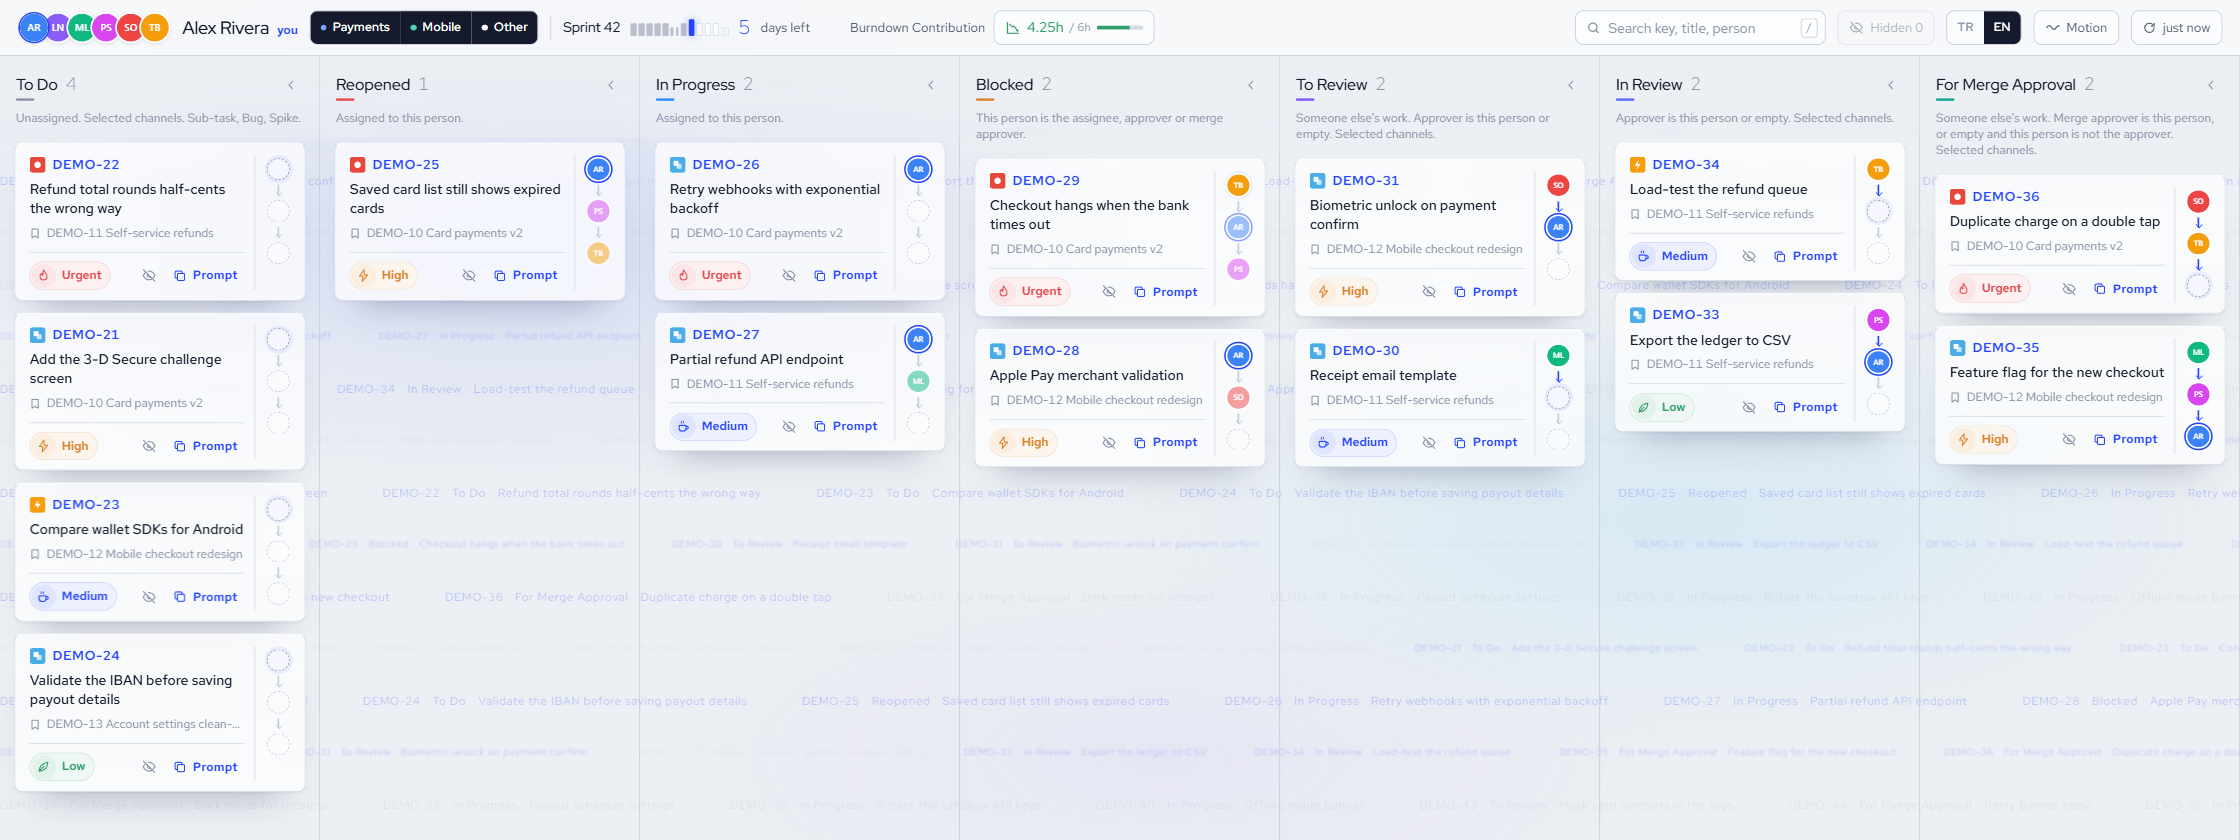
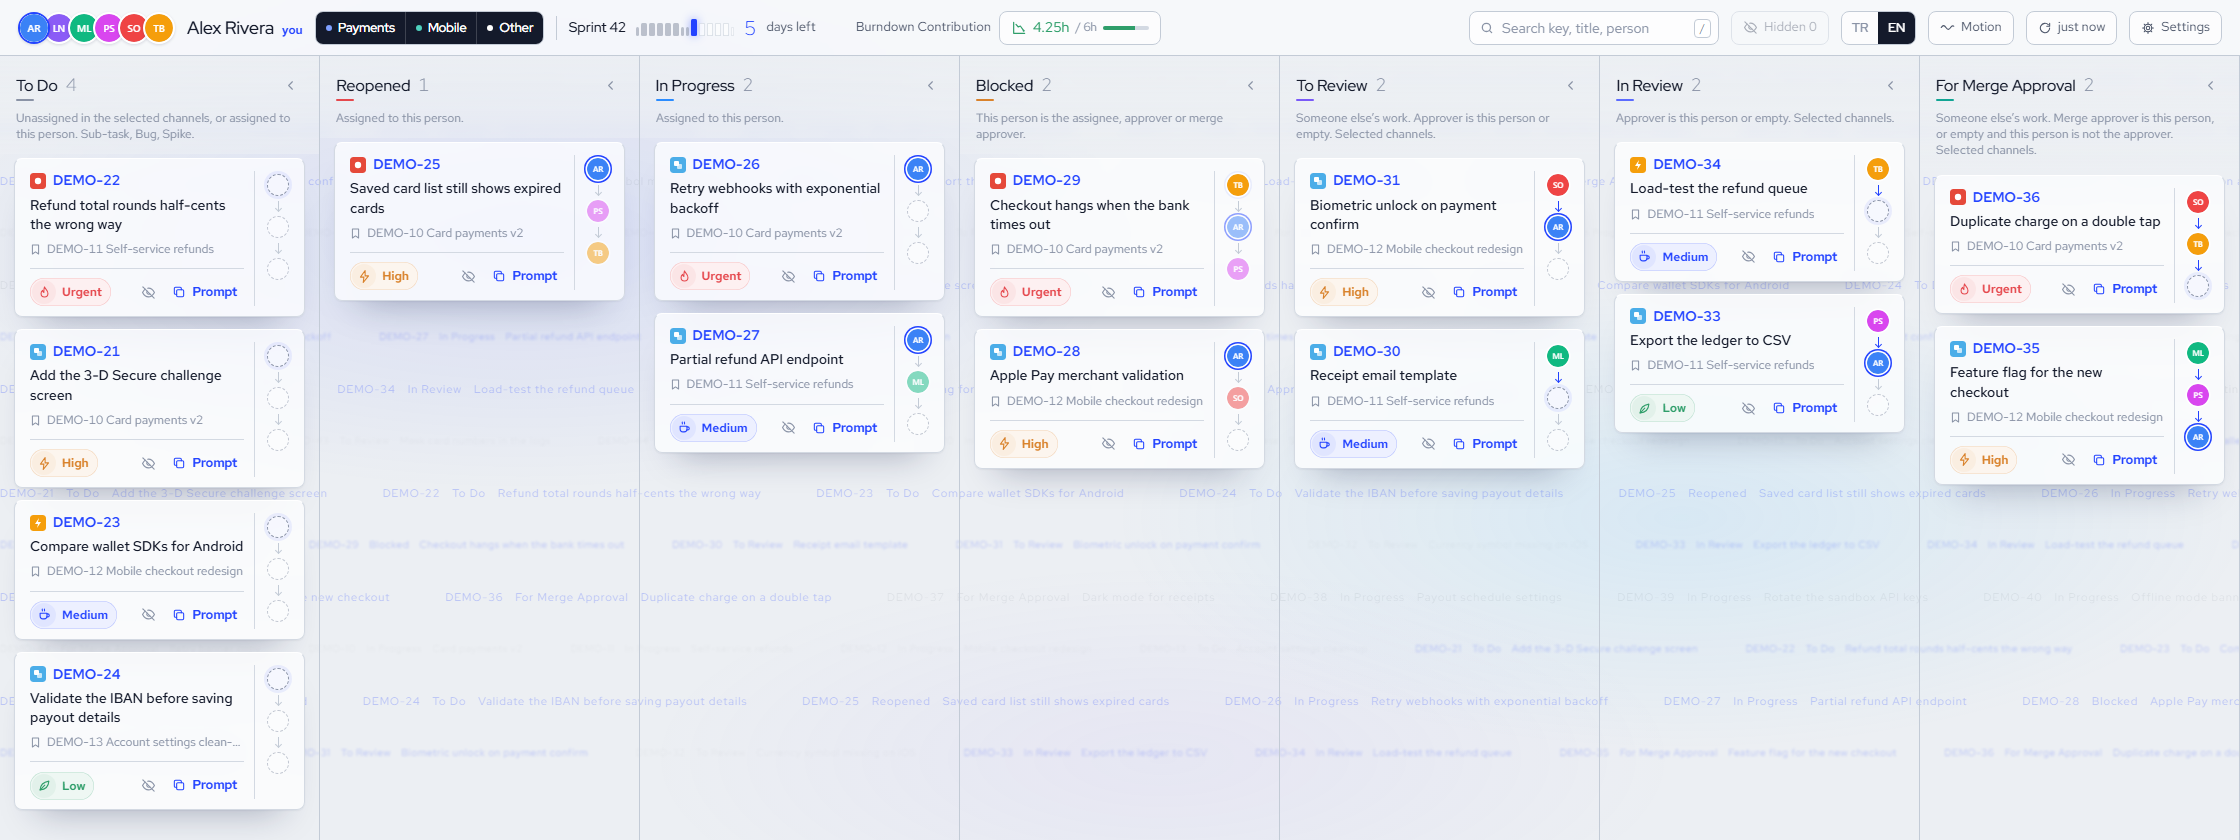
Show the person's own To Do tickets in the To Do column
The unassigned rule gets an orAssignee option, on by default for To Do. A To Do ticket assigned to the person no longer drops off the board; it shows whatever channels are selected, like the assignee columns. Retake the board screenshot for the new column text.

diff --git a/board.html b/board.html
@@ -409,7 +409,7 @@ var T={
     reasons:{notFirst:'ilk geçiş değil',own:'kendi işi',notAssignee:'assignee değil',noEstimate:'tahmin yok'},
     other:'Diğer',chan:'Kanallar',chanTip:function(c){return c+' kolonları seçili kanalların işlerini gösterir.'},chanLast:'En az bir kanal açık kalmalı.',
     and:' ve ',or:' ya da ',
-    r:{unassigned:'Atanmamış.',assignee:'Bu kişiye atanmış.',any:'Bu statüdeki tüm işler.',channels:'Seçili kanallar.',notMine:'Başkasının işi.',
+    r:{unassigned:'Atanmamış.',unassignedOrMine:'Atanmamış ya da bu kişiye atanmış.',unassignedChanOrMine:'Seçili kanallarda atanmamış ya da bu kişiye atanmış.',assignee:'Bu kişiye atanmış.',any:'Bu statüdeki tüm işler.',channels:'Seçili kanallar.',notMine:'Başkasının işi.',
       involved:function(x){return 'Bu kişi '+x+'.'},roleOrEmpty:function(l){return l+' bu kişi ya da boş.'},roleOnly:function(l){return l+' bu kişi.'},
       roleOrEmptyNot:function(l,x){return l+' bu kişi; ya da boş ve bu kişi '+x+' değil.'},notRole:function(x){return 'Bu kişi '+x+' değil.'}}},
   en:{search:'Search key, title, person',hidden:'Hidden',refresh:'Refresh',retry:'Try again',
@@ -426,7 +426,7 @@ var T={
     reasons:{notFirst:'not the first pass',own:'own ticket',notAssignee:'not the assignee',noEstimate:'no estimate'},
     other:'Other',chan:'Channels',chanTip:function(c){return c+' show work from the selected channels.'},chanLast:'Keep at least one channel on.',
     and:' and ',or:' or ',
-    r:{unassigned:'Unassigned.',assignee:'Assigned to this person.',any:'All work in this status.',channels:'Selected channels.',notMine:'Someone else’s work.',
+    r:{unassigned:'Unassigned.',unassignedOrMine:'Unassigned or assigned to this person.',unassignedChanOrMine:'Unassigned in the selected channels, or assigned to this person.',assignee:'Assigned to this person.',any:'All work in this status.',channels:'Selected channels.',notMine:'Someone else’s work.',
       involved:function(x){return 'This person is the '+x+'.'},roleOrEmpty:function(l){return l+' is this person or empty.'},roleOnly:function(l){return l+' is this person.'},
       roleOrEmptyNot:function(l,x){return l+' is this person, or empty and this person is not the '+x+'.'},notRole:function(x){return 'This person is not the '+x+'.'}}}
 };
@@ -513,9 +513,10 @@ function chanFor(u){var on=(chans[u]||[]).filter(function(c){return CHAN_IDS.ind
 function inChan(r,u){if(!CHANS.length)return true;var on=chanFor(u);return chanOf(r).some(function(c){return on.indexOf(c)>=0})}
 /* Column rules, keyed by the selected person. The server already matched status and issue type (r.cols). */
 function fits(c,r,u){
-  if(c.channels&&!inChan(r,u))return false;
-  var R=c.rule,mine=!!(r.assignee&&r.assignee.id===u);
-  if(R.type==='unassigned')return !r.assignee;
+  var R=c.rule,mine=!!(r.assignee&&r.assignee.id===u),own=R.type==='unassigned'&&R.orAssignee&&mine;
+  /* The person's own tickets are not filtered by channel, as in the assignee columns. */
+  if(c.channels&&!own&&!inChan(r,u))return false;
+  if(R.type==='unassigned')return !r.assignee||own;
   if(R.type==='assignee')return mine;
   if(R.type==='any')return true;
   if(R.type==='involved')return mine||(R.roles||ROLES.map(function(x){return x.id})).some(function(id){return has(roleList(r,id),u)});
@@ -535,7 +536,9 @@ function sentenceCase(l){return lang==='en'?l.charAt(0).toUpperCase()+l.slice(1)
 function ruleText(c){
   if(c.description)return txt(c.description);
   var t=T[lang],x=t.r,R=c.rule,p=[];
-  if(R.type==='unassigned')p.push(x.unassigned);
+  var chanNote=c.channels&&CHANS.length;
+  if(R.type==='unassigned'&&R.orAssignee){p.push(chanNote?x.unassignedChanOrMine:x.unassignedOrMine);chanNote=false}
+  else if(R.type==='unassigned')p.push(x.unassigned);
   else if(R.type==='assignee')p.push(x.assignee);
   else if(R.type==='any')p.push(x.any);
   else if(R.type==='involved')p.push(x.involved(joinList([inSentence(t.rA)].concat((R.roles||ROLES.map(function(y){return y.id})).map(roleLabel).filter(Boolean).map(inSentence)),t.or)));
@@ -546,7 +549,7 @@ function ruleText(c){
     else if(ex.length)p.push(x.notRole(joinList(ex,t.or)));
     else if(!R.notAssignee)p.push(x.any);
   }
-  if(c.channels&&CHANS.length)p.push(x.channels);
+  if(chanNote)p.push(x.channels);
   if(c.types&&c.types.length)p.push(c.types.join(', ')+'.');
   return p.join(' ');
 }

diff --git a/board.py b/board.py
@@ -104,7 +104,8 @@ PROMPTS = {
 }
 
 DEFAULT_COLUMNS = [
-    {"id": "todo", "name": "To Do", "color": "#8A93A6", "rule": {"type": "unassigned"}, "types": ["Sub-task", "Bug", "Spike"]},
+    {"id": "todo", "name": "To Do", "color": "#8A93A6", "rule": {"type": "unassigned", "orAssignee": True},
+     "types": ["Sub-task", "Bug", "Spike"]},
     {"id": "reopened", "name": "Reopened", "color": "#E5484D", "rule": {"type": "assignee"}},
     {"id": "progress", "name": "In Progress", "color": "#2B8CFF", "rule": {"type": "assignee"}},
     {"id": "blocked", "name": "Blocked", "color": "#D9822B", "rule": {"type": "involved"}},
@@ -575,6 +576,7 @@ def configure(cfg, base=None):
             "role": rule.get("role"),
             "roles": str_list(rule.get("roles"), f"{where}.rule.roles") if rule.get("roles") is not None else None,
             "notAssignee": bool(rule.get("notAssignee")),
+            "orAssignee": bool(rule.get("orAssignee")),
             "emptyExcludes": str_list(rule.get("emptyExcludes"), f"{where}.rule.emptyExcludes"),
             "whenEmpty": rule.get("whenEmpty", "anyone"),
         }

diff --git a/tests/test_board.py b/tests/test_board.py
@@ -127,6 +127,12 @@ class BoardTest(unittest.TestCase):
         self.assertEqual({c["id"]: c["stage"] for c in board.COLUMNS},
                          {"todo": 0, "reopened": 0, "progress": 0, "blocked": 0, "toreview": 1, "inreview": 1, "merge": 2})
 
+    def test_to_do_also_shows_the_persons_own_tickets(self):
+        configured()
+        self.assertTrue(next(c for c in board.COLUMNS if c["id"] == "todo")["rule"]["orAssignee"])
+        configured(columns=[{"id": "todo", "name": "To Do", "rule": {"type": "unassigned"}}])
+        self.assertFalse(board.COLUMNS[0]["rule"]["orAssignee"])
+
 
 class BurnJobTest(unittest.TestCase):
     def test_burn_is_worked_out_in_the_background(self):

diff --git a/README.md b/README.md
@@ -208,7 +208,7 @@ A ticket goes to the first column whose statuses and issue types match and whose
 
 | Rule | Shows a ticket when |
 | --- | --- |
-| `unassigned` | nobody is assigned |
+| `unassigned` | nobody is assigned. `orAssignee: true` (the To Do default) also shows the person's own tickets, whatever channels are selected. |
 | `assignee` | the person is the assignee |
 | `involved` | the person is the assignee or holds any reviewer role (or the roles listed in `roles`) |
 | `role` | the person holds `role`. When the role is empty, anyone may take it (`whenEmpty: "anyone"`) except people in `emptyExcludes`, or nobody (`whenEmpty: "nobody"`). `notAssignee: true` hides the person's own tickets. |
